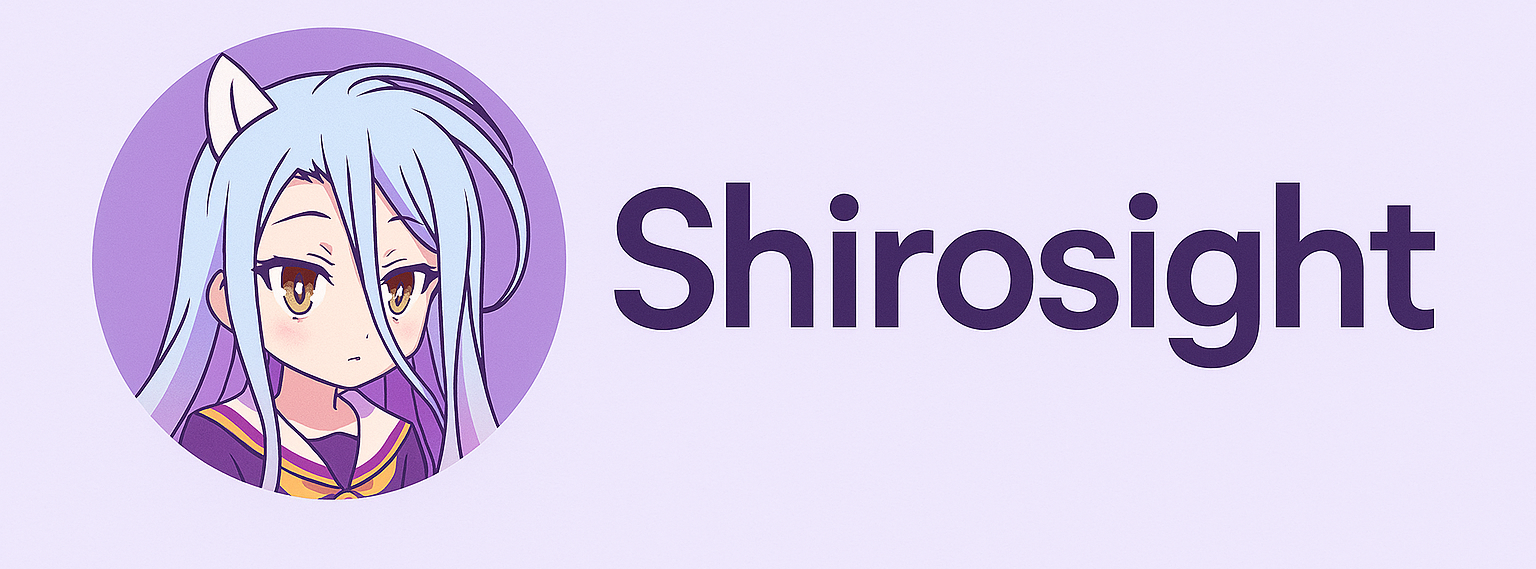
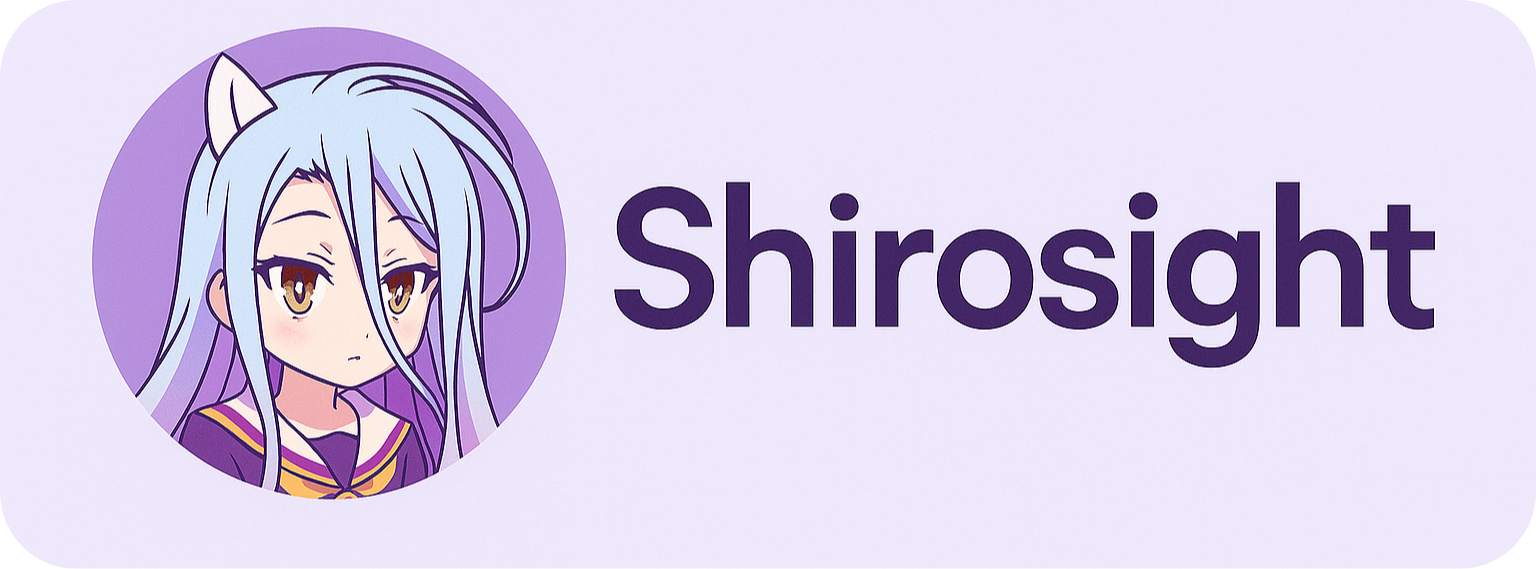
[FIX] fix image

diff --git a/README.md b/README.md
@@ -1,5 +1,5 @@
 <div align="center">
-  <img src="./static/shirosight.png" alt="shirosight" style="border-radius: 20px;">
+  <img src="./static/shirosight.png" alt="shirosight">
 </div>
 <hr>
 <br>
